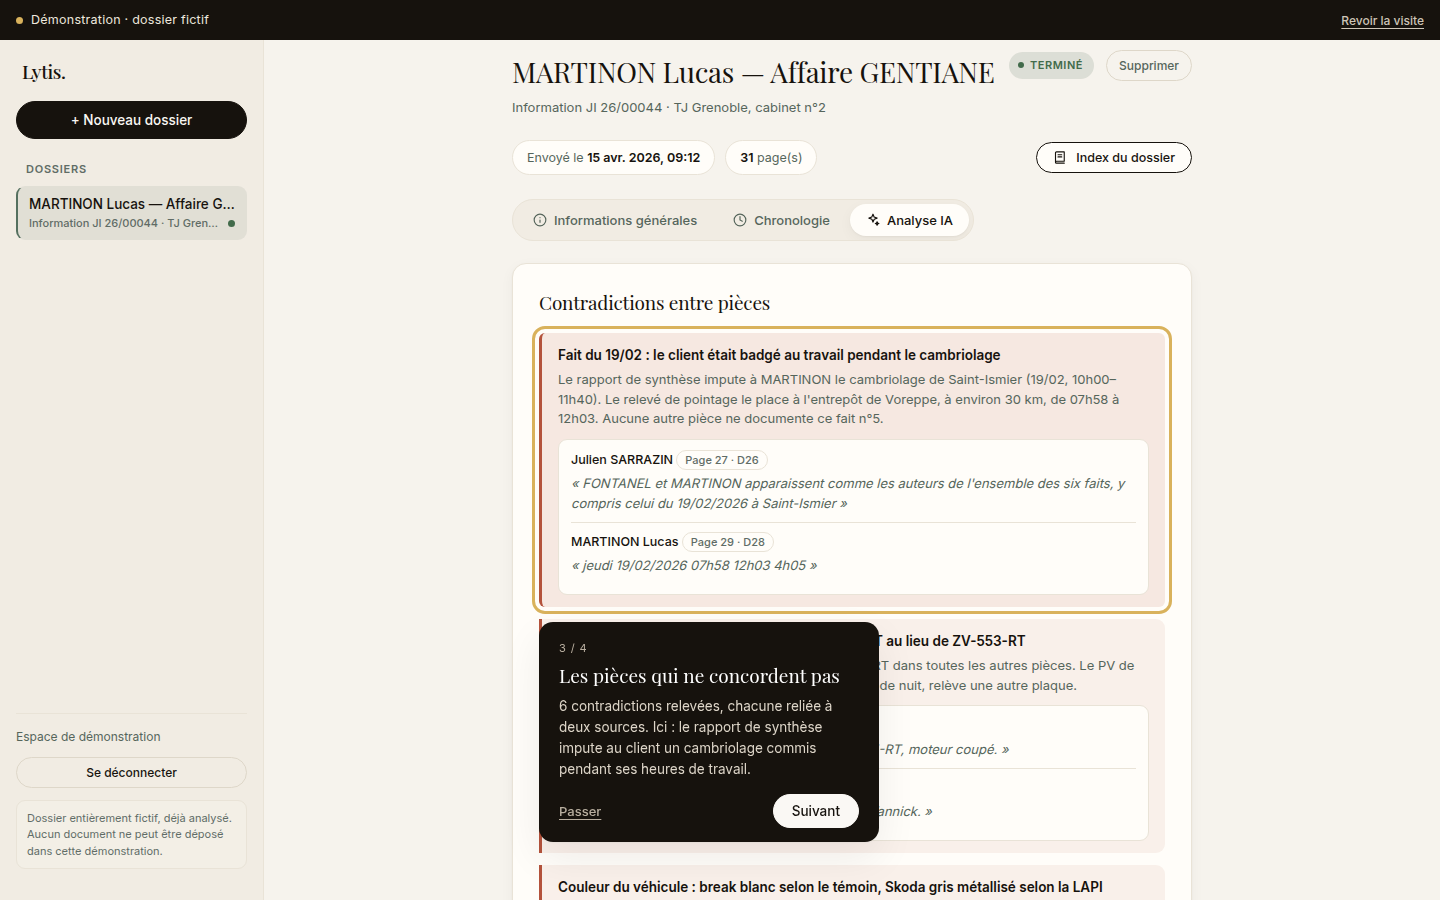
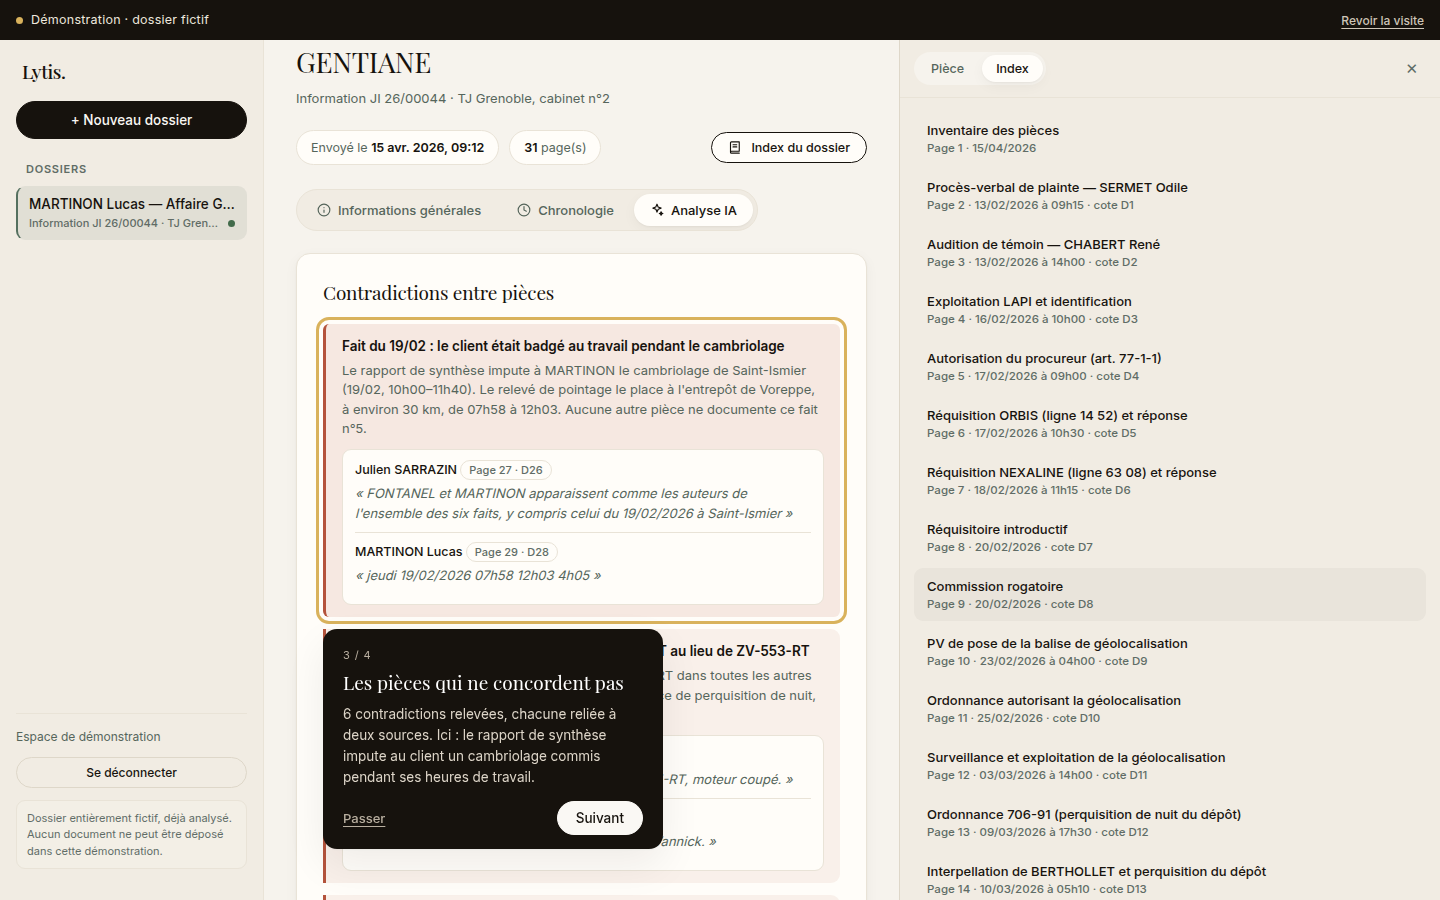
demo: index du dossier ouvert dès l'arrivée sur ordinateur
Claude-Session: https://claude.ai/code/session_01TiRuWH22G9KjR2WhbMiB4b

diff --git a/demo/site/app.js b/demo/site/app.js
@@ -554,7 +554,6 @@ let etapeParcours = 0;
 function lancerParcours() {
   parcoursActif = true;
   etapeParcours = 0;
-  fermerClasseur();
   document.getElementById("parcours").hidden = false;
   afficherEtape();
 }
@@ -640,5 +639,9 @@ document.addEventListener("keydown", (e) => {
 
 rendreListeLaterale();
 rendreDetailDossier();
+// Sur ordinateur, l'index du dossier est ouvert d'emblée : l'avocat voit tout
+// de suite qu'il a le classeur complet sous la main. Sur téléphone, le
+// classeur couvrirait tout l'écran : il reste fermé.
+if (window.matchMedia("(min-width: 721px)").matches) ouvrirIndexClasseur();
 suivre("Arrivée");
 if (!lireStockage(CLE_PARCOURS)) setTimeout(lancerParcours, 700);
